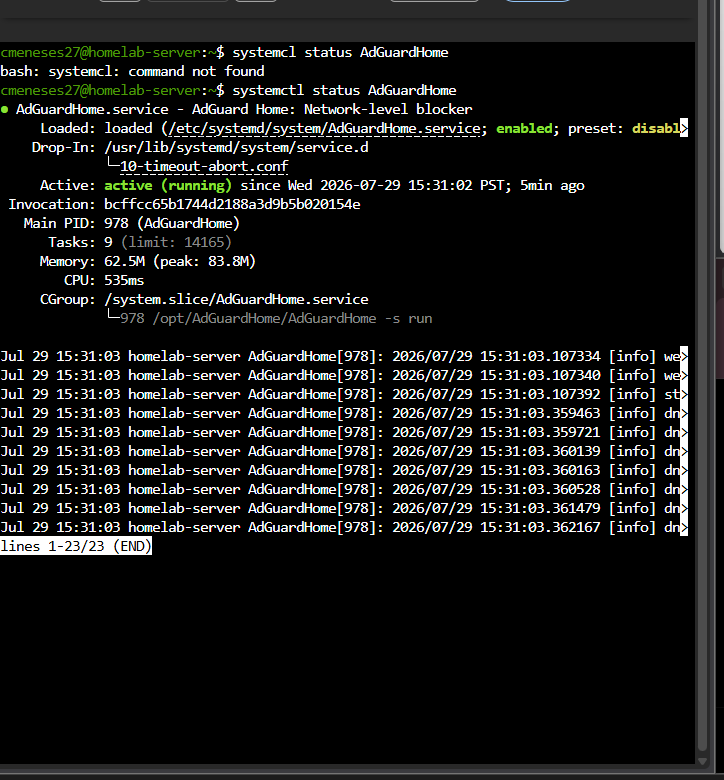
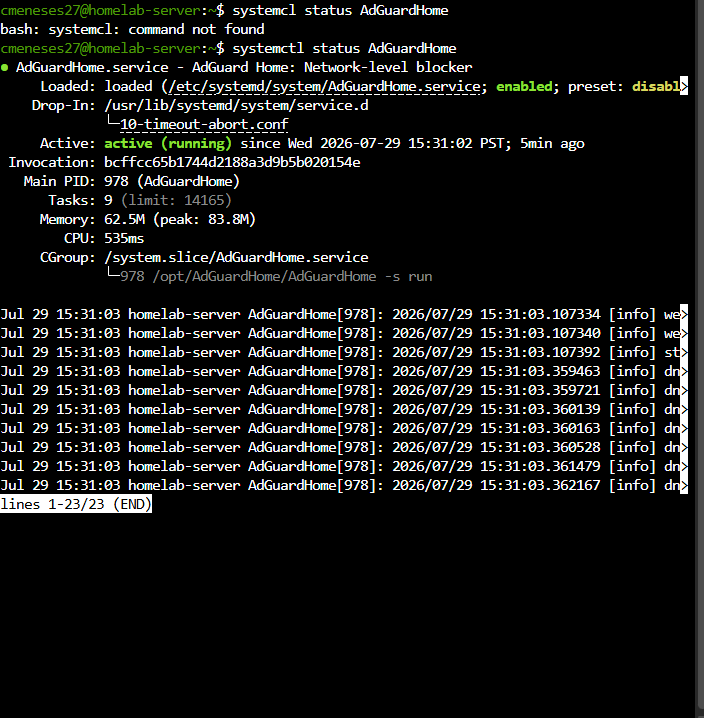
update style

diff --git a/index.html b/index.html
@@ -47,7 +47,7 @@
       </div>
 
       <div class="hero-image">
-        <img class="profile-img" src="images/profile.jpg" alt="Charles Marrey Meneses">
+        <img class="profile-img" src="images/Picture1.png" alt="Charles Marrey Meneses">
       </div>
     </section>
 
